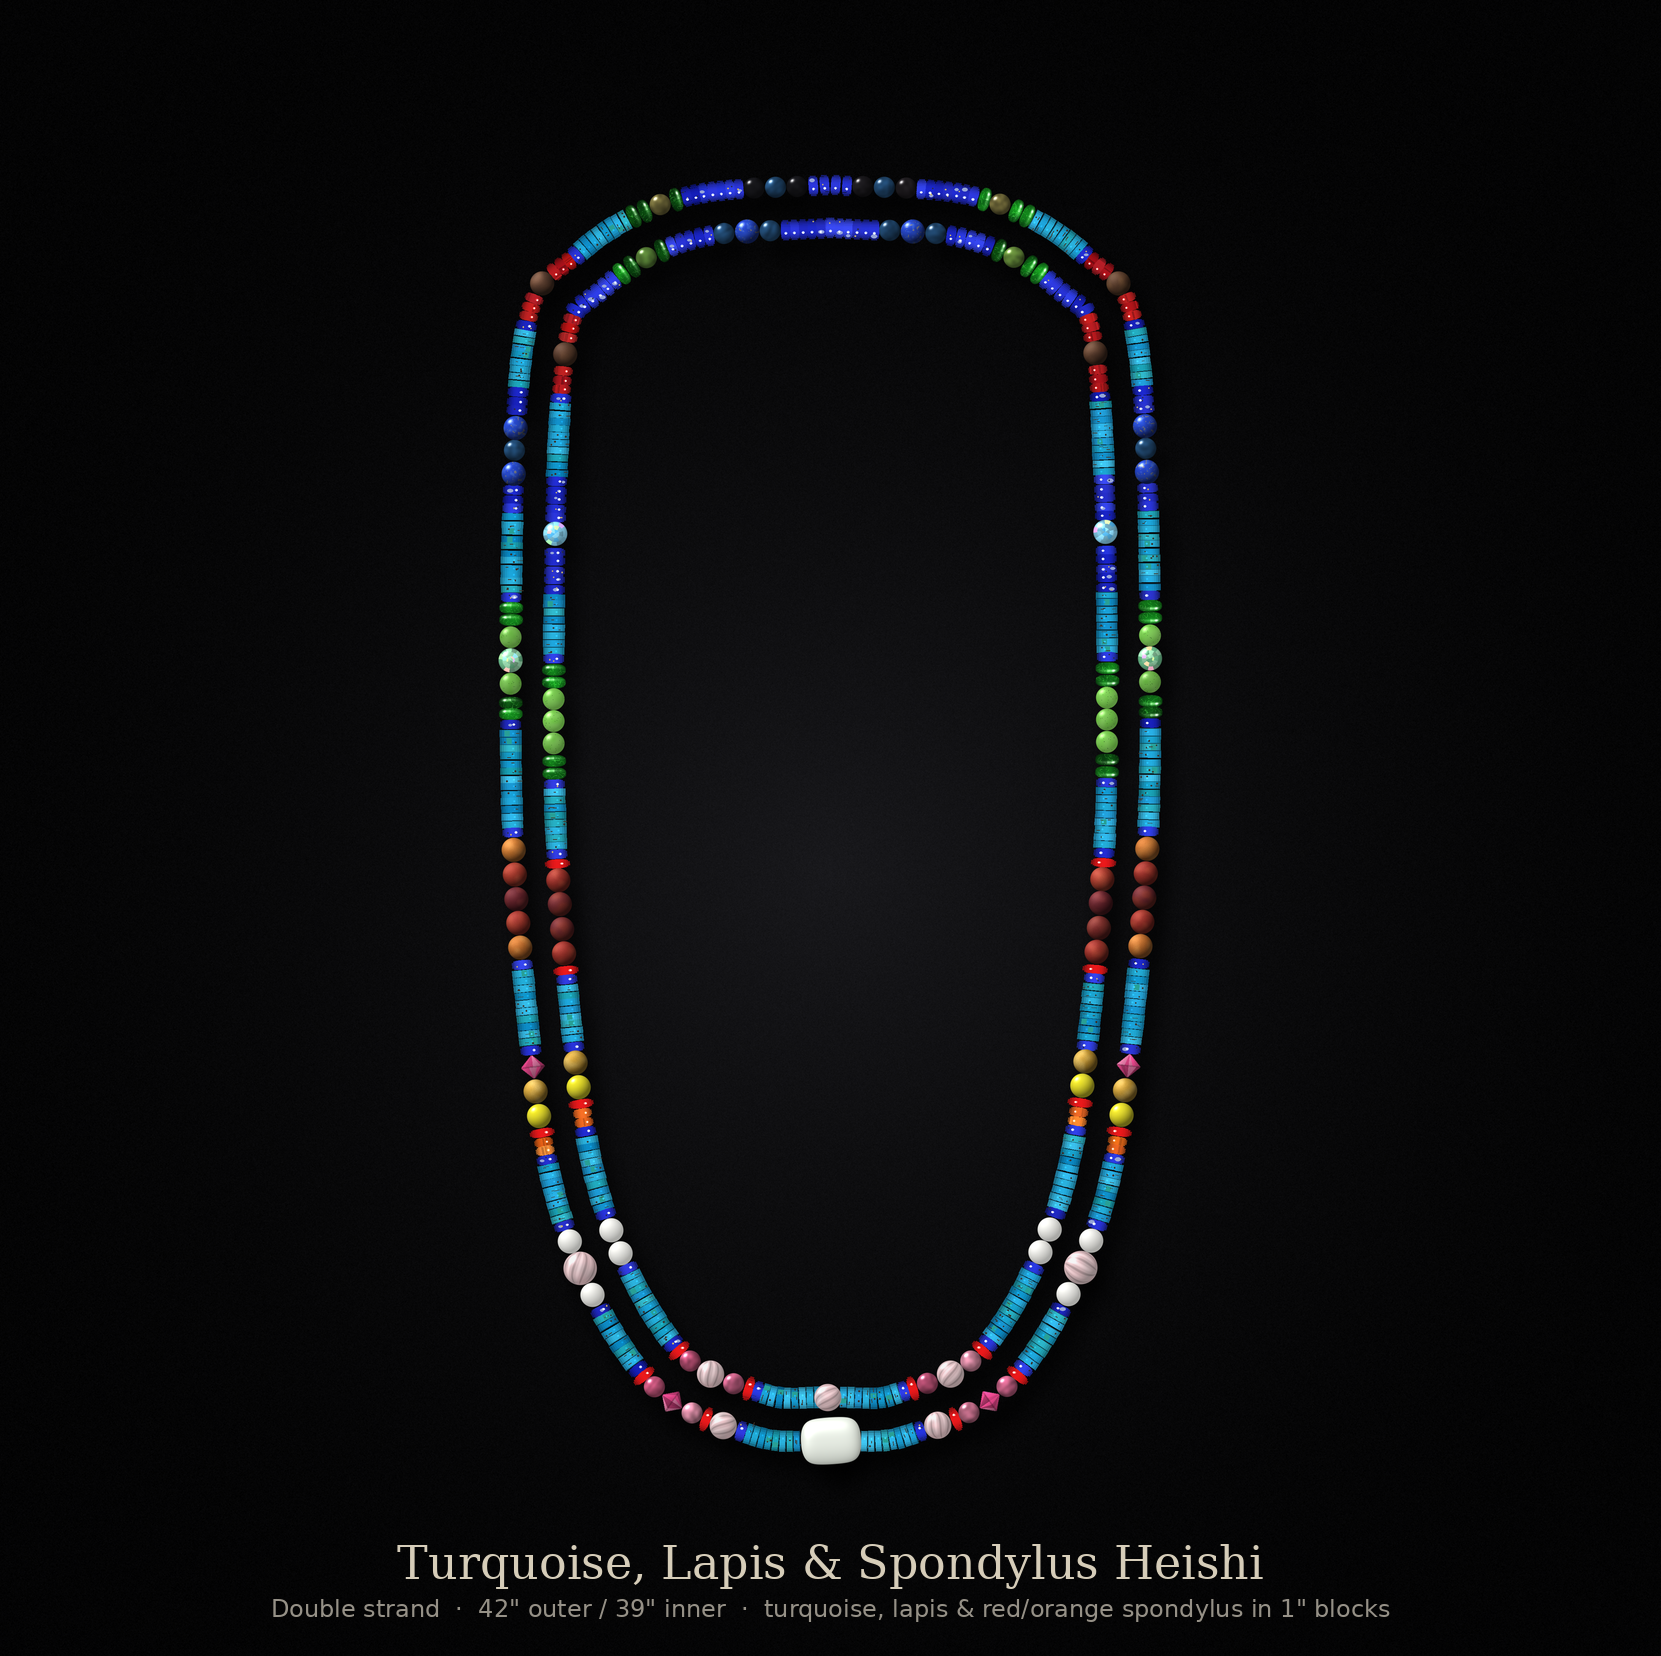
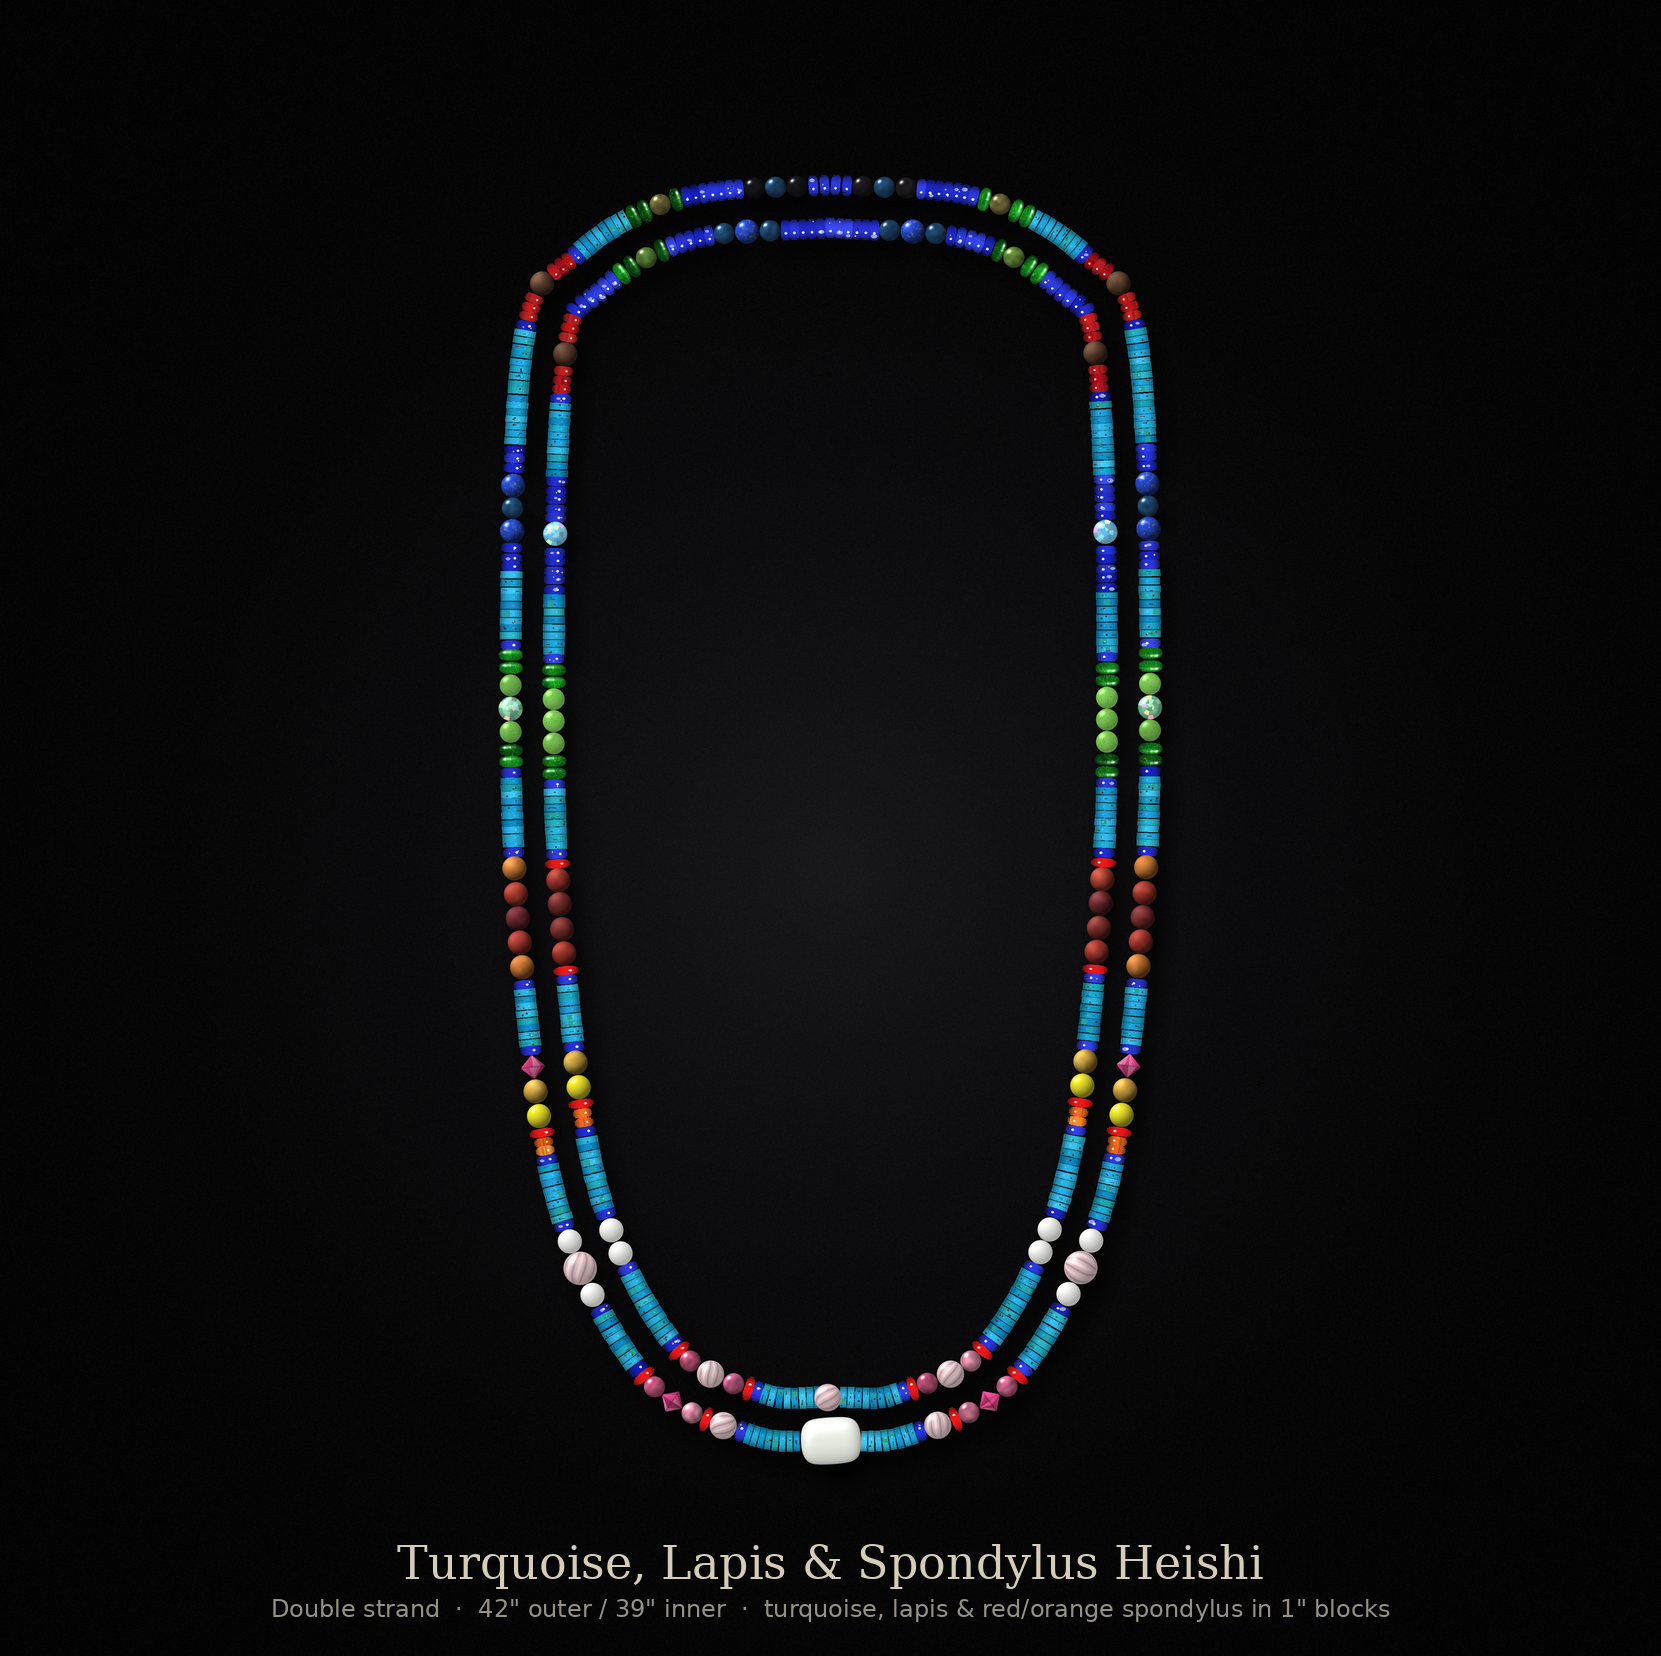
Version 5: outer blue, green and brown bands lowered to line up with inner
Claude-Session: https://claude.ai/code/session_014be1vF4Rdf8sv9Si75Gudv

Changed region(s): [[0.2763, 0.2156, 0.3377, 0.6159], [0.6755, 0.2156, 0.7062, 0.6467]]

diff --git a/necklace/render_necklace.py b/necklace/render_necklace.py
@@ -1036,7 +1036,8 @@ if V4:
     barrels = {0: [], 1: []}
     denim = []
     V4_USED = {}
-    for st, STN in ((0, OUTER), (1, INNER)):
+    V5_CEN = {}
+    for st, STN in (((1, INNER), (0, OUTER)) if V5 else ((0, OUTER), (1, INNER))):
         path, ss = (outer, s_out) if st == 0 else (inner, s_in)
         Hh = HIDDEN_OUT if st == 0 else HIDDEN_IN
         Lf = ss[-1] + Hh
@@ -1095,8 +1096,23 @@ if V4:
             if first < 3.0:                     # take the shortfall from the lapis run behind the neck, not turquoise
                 mids[0] -= 3.0 - first
                 first = 3.0
-            print(f"v5 strand {st}: top gap {first:.1f} mm, behind-neck lapis run {mids[0]:.1f} mm")
             gaps = [first] + mids + [last]
+            if st == 1:                         # remember where the inner bands sit (fraction of the strand)
+                _acc, _c = 0.0, []
+                for _gi in range(len(widths)):
+                    _acc += gaps[_gi]; _c.append((_acc + widths[_gi] / 2) / Hs); _acc += widths[_gi]
+                V5_CEN[1] = _c
+            else:                               # outer bands placed to line up with their inner partners
+                _cur, _a = [], 0.0
+                for _gi in range(len(widths)):
+                    _a += gaps[_gi]; _cur.append(_a); _a += widths[_gi]
+                _st = list(_cur)
+                for i in (3, 4, 5):                 # only the blue, green and brown bands move down to line up
+                    _st[i] = V5_CEN[1][i] * Hs - widths[i] / 2
+                gaps = [_st[0]] + [_st[i + 1] - (_st[i] + widths[i]) for i in range(len(widths) - 1)] + \
+                       [Hs - (_st[-1] + widths[-1])]
+                first, mids = gaps[0], gaps[1:-1]
+            print(f"v5 strand {st}: gaps {[round(float(x), 1) for x in gaps]}")
         g = 0.0
         lap = LAP_BUDGET[st]
         for gi, gl in enumerate(gaps):
